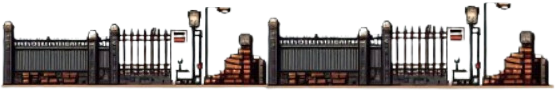
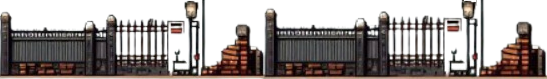
add berlin divisions 1 scene_organized enemys

diff --git a/components/Game/scenes/BerlinScene/BerlinScene.buildings.js b/components/Game/scenes/BerlinScene/BerlinScene.buildings.js
@@ -29,33 +29,145 @@ export const BUILDINGS = [
     key: "/assets/water.png",
     items: [
       {
-        setXY: { x: 0, y: 1117 }
+        setXY: { x: 1500, y: 0 }
       }
     ]
   },
   {
-    key: "/assets/water.png",
+    key: "/assets/water2.png",
     items: [
       {
-        setXY: { x: 1044, y: 1111 }
+        setXY: { x: 1500, y: 1047 }
       }
     ]
   },
   {
-    key: "/assets/house_line1_mini",
+    key: "/assets/house_line1_mini.png",
     items: [
       {
-        setXY: { x: 0, y: 2819 }
+        setXY: { x: -4, y: 2724 }
       }
     ]
   },
   {
-    key: "/assets/house_line2_mini",
+    key: "/assets/berlin_division6_mini.png",
     items: [
       {
-        setXY: { x: 2819, y: 900 }
+        setXY: { x: 910, y: 2760 }
+      }
+    ]
+    },
+  {
+    key: "/assets/house_line2_mini.png",
+    items: [
+      {
+        setXY: { x: 1147, y: 2724 }
       }
     ]
   },
-
+  {
+    key: "/assets/house_line3_mini.png",
+    items: [
+      {
+        setXY: { x: 0, y: 1992 }
+      }
+    ]
+  },
+  {
+    key: "/assets/house_line6_mini.png",
+    items: [
+      {
+        setXY: { x: 136, y: 2145 }
+      }
+    ]
+  },
+  {
+    key: "/assets/berlin_division1_mini.png",
+    items: [
+      {
+        setXY: { x: 140, y: 2500 }
+      }
+    ]
+  },
+  {
+    key: "/assets/home_divion_side_mini.png",
+    items: [
+      {
+        setXY: { x: 1500, y: 1500 }
+      }
+    ]
+  },
+  {
+    key: "/assets/house_line4_mini.png",
+    items: [
+      {
+        setXY: { x: 1010, y: 1750 }
+      }
+    ]
+  },
+  {
+    key: "/assets/house_berlin2_mini.png",
+    items: [
+      {
+        setXY: { x: 978, y: 2288 }
+      }
+    ]
+  },
+  {
+    key: "/assets/berlin_division2_mini.png",
+    items: [
+      {
+        setXY: { x: 463, y: 2332 }
+      }
+    ]
+  },
+  {
+    key: "/assets/berlin_division5_mini.png",
+    items: [
+      {
+        setXY: { x: 1270, y: 1835 }
+      }
+    ]
+  },
+  {
+    key: "/assets/house_line7_mini.png",
+    items: [
+      {
+        setXY: { x: 1250, y: 1897 }
+      }
+    ]
+  },
+  {
+    key: "/assets/berlin_division3_mini.png",
+    items: [
+      {
+        setXY: { x: 515, y: 2050 }
+      }
+    ]
+  },
+  {
+    key: "/assets/berlin_division4_mini.png",
+    items: [
+      {
+        setXY: { x: 493, y: 1732 }
+      }
+    ]
+  },
+  {
+    key: "/assets/house_line5_mini.png",
+    items: [
+      {
+        setXY: { x: 450, y: 1412 }
+      }
+    ]
+  },
+  {
+    key: "/assets/House_berlin1_mini.png",
+    items: [
+      {
+        setXY: { x: 0, y: 1412 }
+      }
+    ]
+  },
+  
 ];

diff --git a/components/Game/scenes/BerlinScene/BerlinScene.enemies.js b/components/Game/scenes/BerlinScene/BerlinScene.enemies.js
@@ -1,9 +1,9 @@
 export const ENEMIES = [
   {
-    x: 900,
-    y: 1800,
-    velocityX: -50,
-    velocityY: 0,
+    x: 760,
+    y: 2750,
+    velocityX: 0,
+    velocityY: 50,
   },
   {
     x: 1100,
@@ -12,21 +12,22 @@ export const ENEMIES = [
     velocityY: 0,
   },
   {
-    x: 1000,
-    y: 1700,
-    velocityX: 0,
-    velocityY: -50,
+    x: 550,
+    y: 1675,
+    velocityX: -50,
+    velocityY: 0,
   },
   {
-    x: 1000,
-    y: 1900,
+    x: 750,
+    y: 290,
+    velocityX: -50,
+    velocityY: 0,
+  },
+  {
+    x: 100,
+    y: 900,
     velocityX: 0,
     velocityY: 50,
   },
-  {
-    x: 1000,
-    y: 1800,
-    velocityX: 0,
-    velocityY: 0,
-  },
+
 ];
